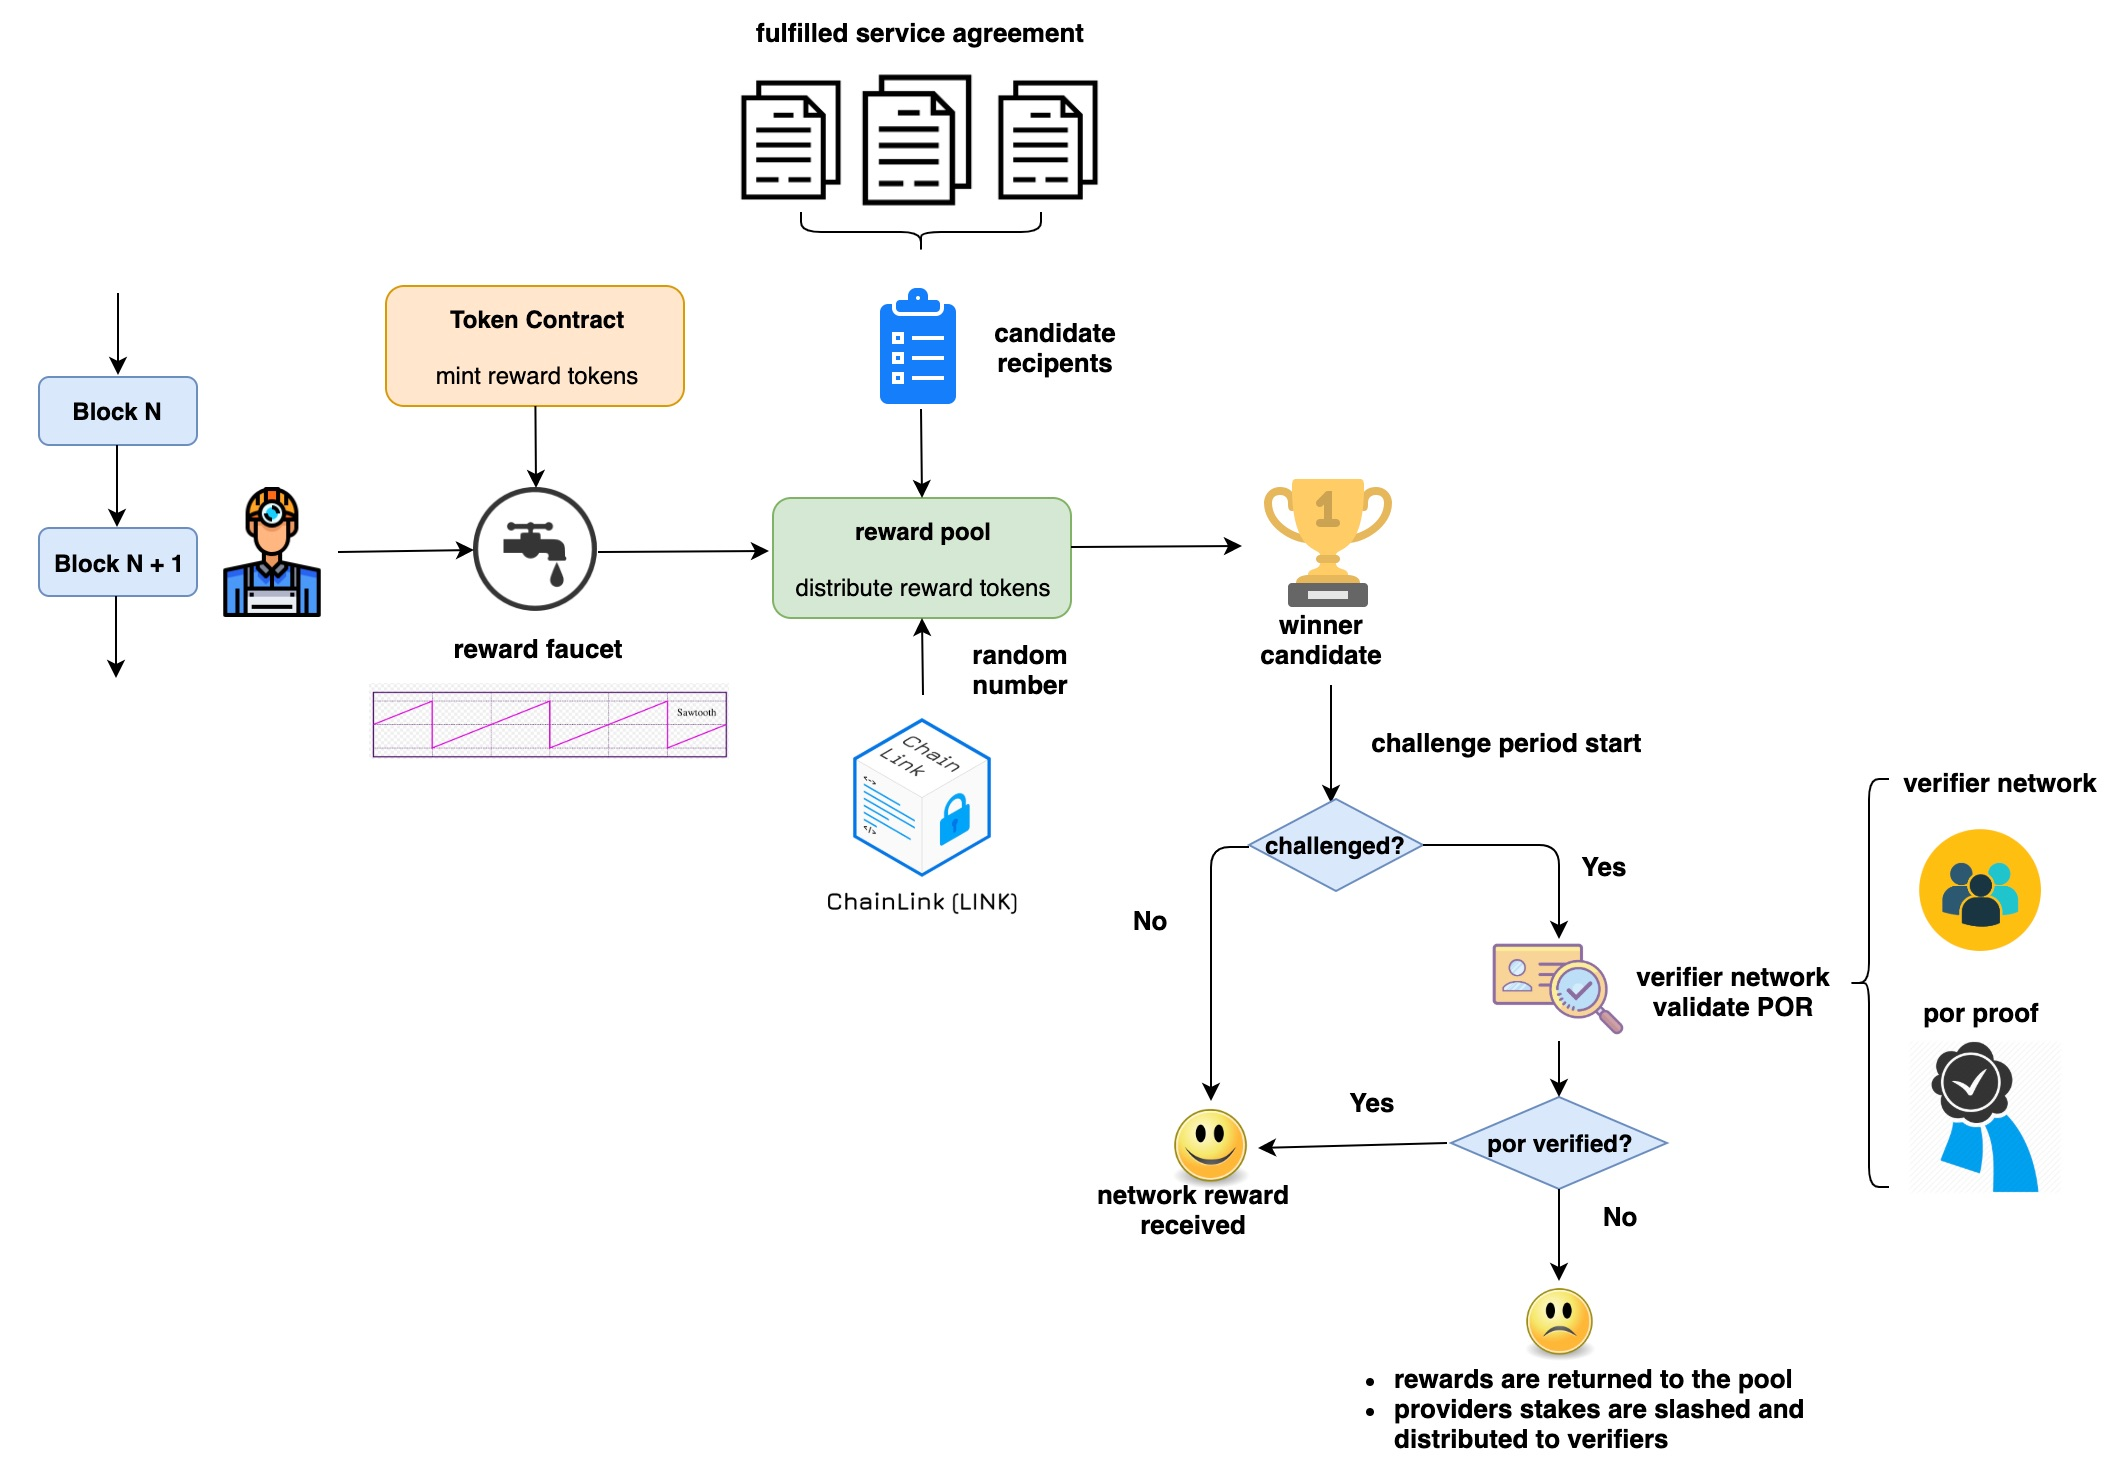
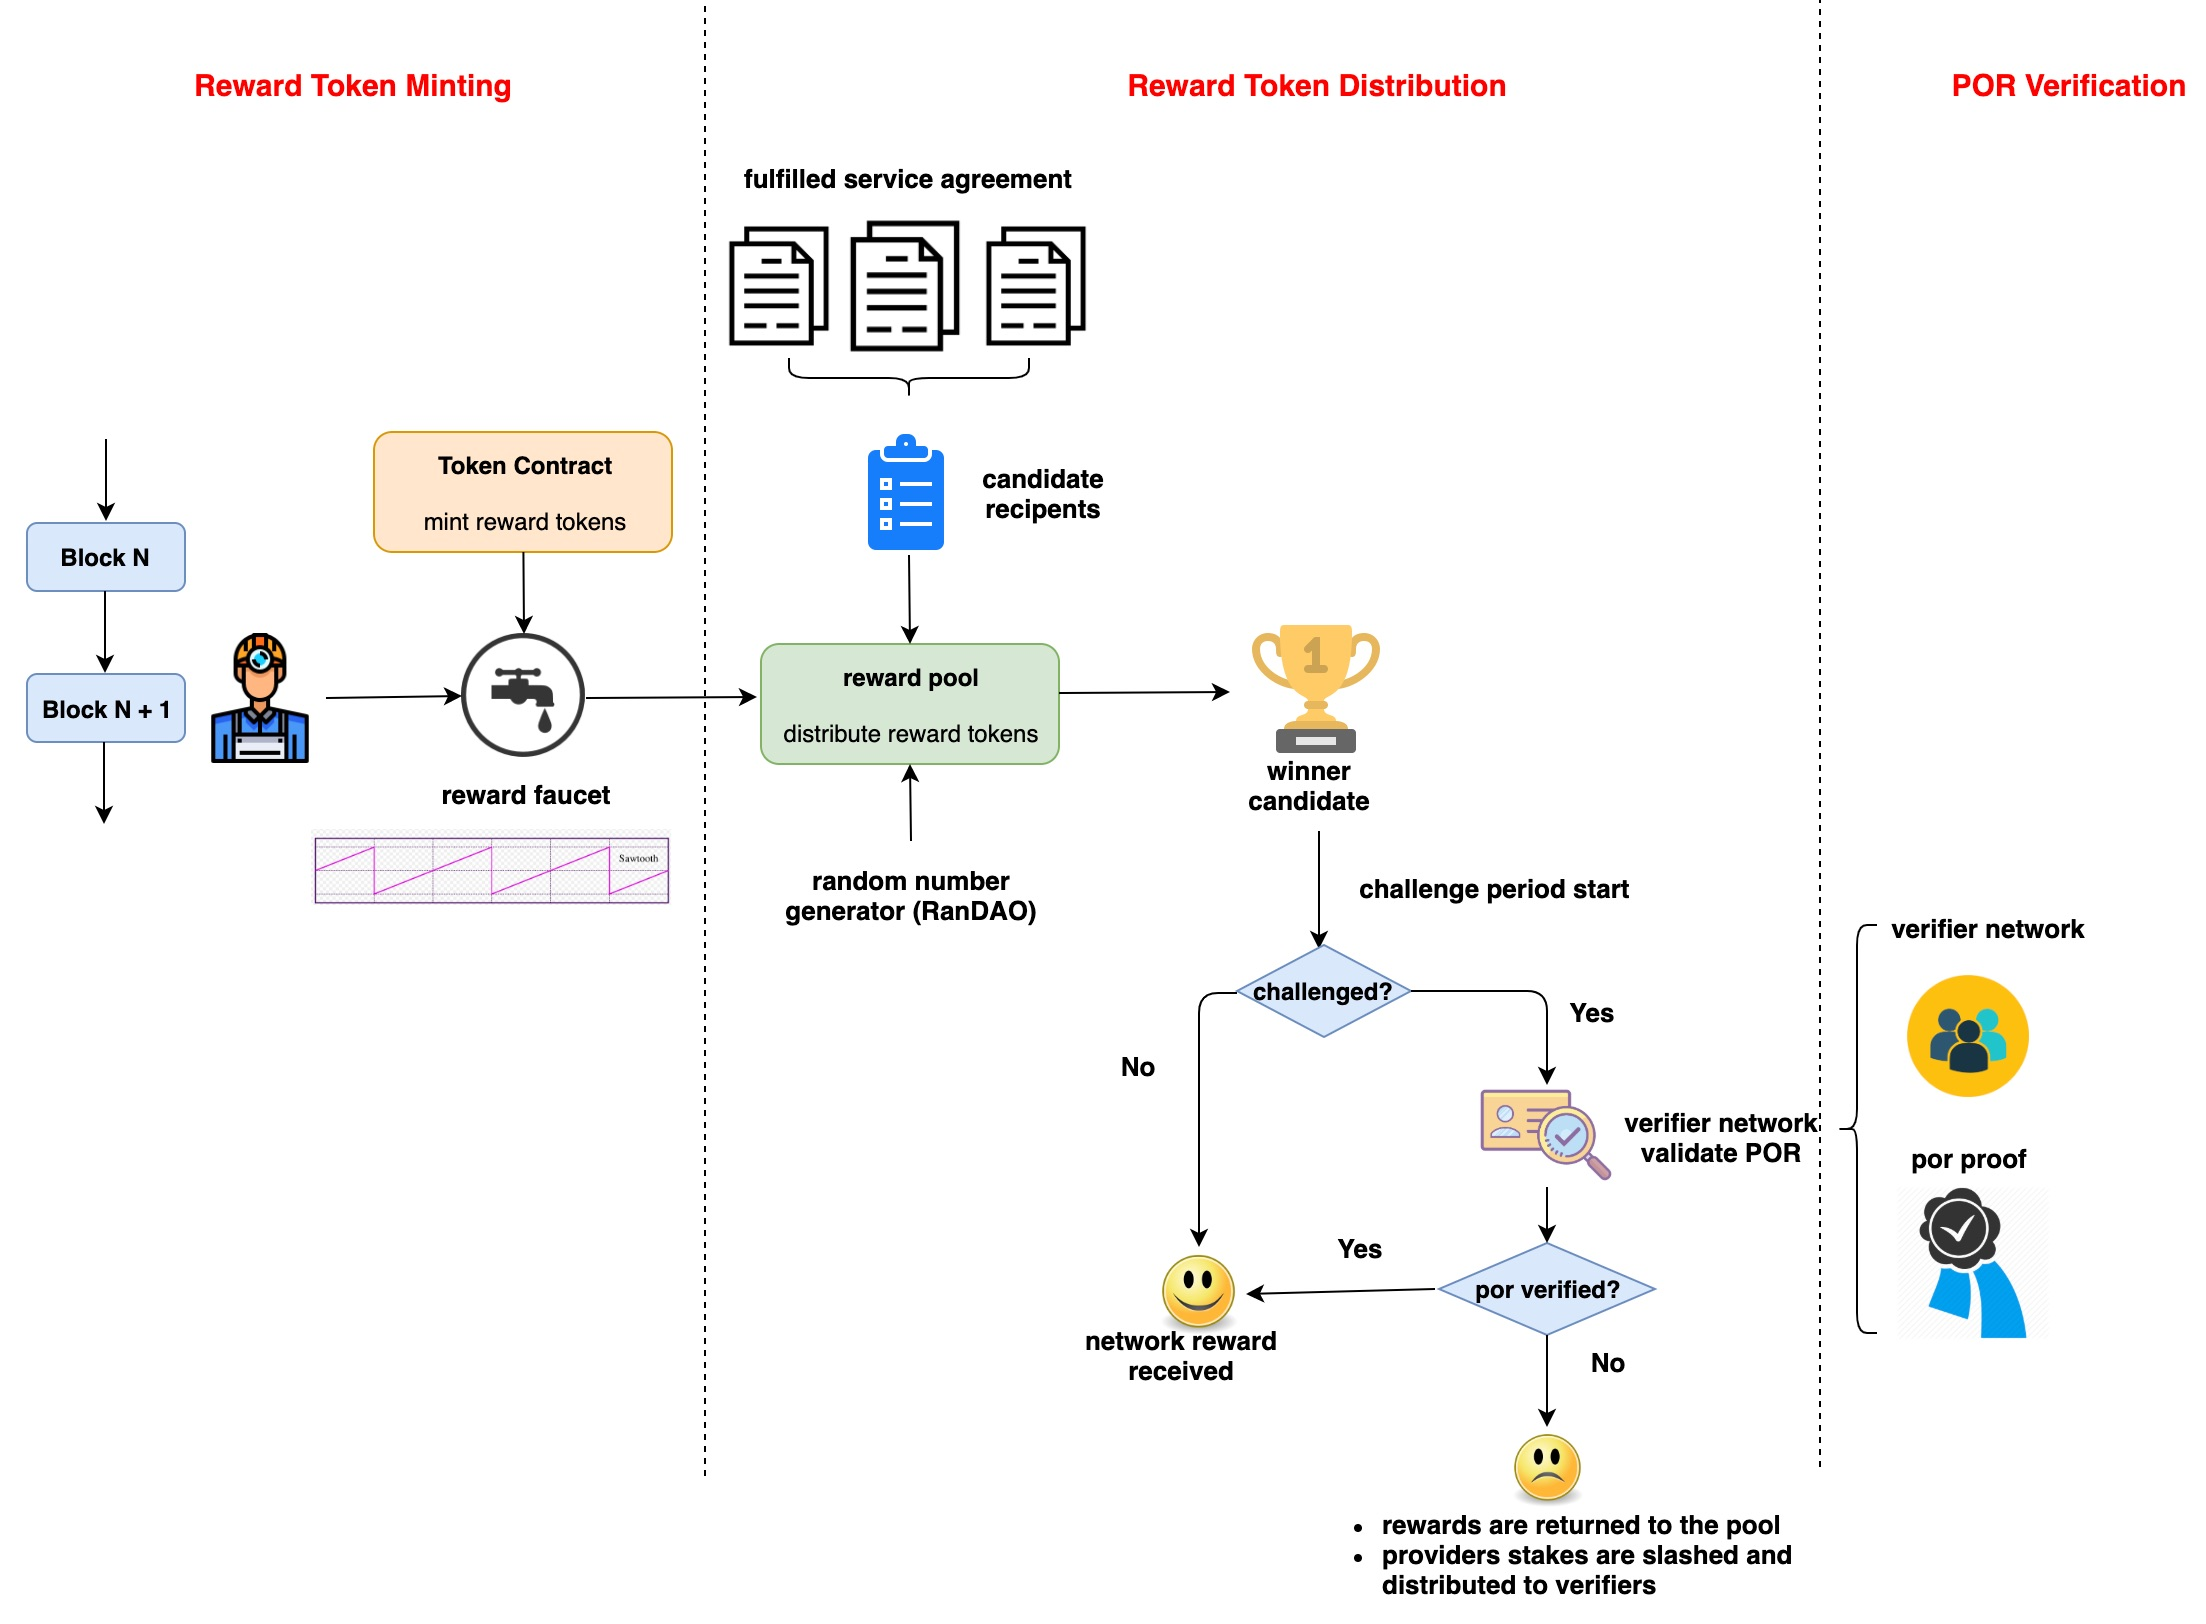
modify incentive

diff --git a/17-permissionless-incentive/README.md b/17-permissionless-incentive/README.md
@@ -5,7 +5,7 @@
 ```
 name: research on incentive design
 type: research
-status: initial draft
+status: updated draft
 editor: Fang Gong <fang@oceanprotocol.com>
 date: 08/27/2019
 ```
@@ -73,7 +73,7 @@ The key problems of incentive design in this layer are follows:
 
 To address these problems, we plotted the initial architecture design as follows:
 
-<img src="img/arch2.jpg" width=1500 />
+<img src="img/arch.jpg" width=1500 />
 
 * **Mining**: 
 	* the network reward tokens will be minted every period of blocks as pre-defined schedule.
@@ -86,7 +86,8 @@ To address these problems, we plotted the initial architecture design as follows
 *  **Distribution**: 
 	* providers who fulfill the service agreement of **data commons** in the same period can be added into the candidate list;
 	* when current epoch is closed, the list will be cleared and start a new epoch;
-	* an random number generator (e.g., RanDAO) or oracle service (e.g. Chainlink) can be used to choose a random recipent from the list (assume each recipent has the same probability to be chosen);
+	* an random number generator (e.g., RanDAO) or oracle service (e.g. Chainlink) can be used to choose a random recipent from the list;
+	* assume each recipent has the same probability to be chosen, but the actual reward paid out might be a function of provider's staking amount);
 * **Verification: (challenge-response appraoch that assume to be good until challenged)**
 	* when a recipent is picked, the challenge period starts, which can be 1 week or 1 month.
 	* anyone can be the challenger to create a challenge against the picked recipent;
@@ -185,9 +186,13 @@ This module includes following components:
 <img src="img/mining-2.jpg" />	
 
 * **Distribute network rewards**
-	* as a first-cut design, each provider who **serve the access to data commons** is eligible to receive network rewards;
+	* **(Update: 09/10/2019)**: each provider who have staked, made dataset available, and served the access to data commons in current epoch is eligible to receive network rewards;
 	* for each epoch, one eligible provider is chosen to receive all reward tokens in the pool;
 	* the reward tokens are locked up for a period (e.g., one week or one month) when anyone can challenge the reward and initiate a verification aganist the provider.
+	* **(Update: 09/10/2019)**: provider must stake more Ocean tokens than the amount of received network rewards:
+		* when picked as the winner, provider can get the reward tokens right away;
+		* meanwhile, their stakes become the "locked stake", which can be lost in the challenge period (e.g., one week or one month) if a successful challenge. 
+
 
 <img src="img/distr.jpg" />	
 
@@ -229,17 +234,11 @@ Overall, all these modules can be built in the same time but they should be inte
 
 <img src="img/roadmap.jpg" width=600 />
 
+## 3.5 Outstanding Issues
 
+### 3.5.1 Reward Multiple Providers for The Same Dataset
 
-# 4. Incentive in Curation Layer
-
-# 5. Appendix
-
-## 5.1 Reward Multiple Providers for The Same Dataset
-
-
-
-### 5.1.1 Problem
+* **Problem**
 
 In the current design of Ocean architecture, each proxy has a single URL pointing to a specific storage serving the dataset. However, many storage providers may serve the exactly the same dataset. 
 
@@ -249,7 +248,7 @@ The root cause of the issue is that each proxy is not aware of the complete list
 
 <img src="img/proxy1.jpg" width=700 />
 
-### 5.1.2 Solution
+* **Solution**
 
 To resovle the issue, the key is to enable all proxies to be aware of all storage providers for the same dataset, which can be done through Keeper contract.
 
@@ -261,5 +260,145 @@ After the proxy receives the provider DID from Keeper contract, it can retrieve 
 
 More importantly, Keeper contract is in charge of randomly choosing a provider from the list, which prevents potential attacks: for example, an attacker runs a proxy and a storage in the same time, and creates a huge amount of requests to access the dataset in his own storage. As such, he fakes the requests and earn network rewards. 
 
+The potential disadvantage is the performance hit, since proxy needs to transact with Keeper to get the provider DID and it may cause a latency.
+
 <img src="img/proxy2.jpg" width=1000 />
+
+### 3.5.2 Need to stake Ocean token to earn
+
+There is an option to requrie miners and sourcers to stake Ocean tokens on their served dataset in addition to serve access requests. The motivations have two folds:
+
+* the staking requirement can filter out most fraudulence, which serve tons of low-quality (if not garbage) dataset in Ocean network to earn network rewards;
+* it creates the huge demand of Ocean tokens and drive up the token price. 
+
+However, it creates certain entrance barrier or friction for new miners to Ocean, who only want to serve dataset to earn network rewards. It can potentially prevent them from participating in Ocean ecosystem. 
+
+Some thoughts of possible solution:
+
+* each miner has a one-time trail period (e.g., one month or so):
+	* miners do not need to stake in order to earn. They can start serving dataset right away without any friction;
+	* after the trail period expires, miners are requried to stake Ocean tokens (funding source can be purchased token or earned network rewards).
+	* possible attack:
+		* miners can create a new account to start a new trail period (i.e., Sybil attack);
+		* however, they cannot build up their reputations in this way;
+		* network rewards can be tuned to reward more to miners with longer time history.
+* alternatively, Ocean can enforce staking policy in a latter stage:
+	* in the early stage, the top priority is to encourage more miners to serve dataset, therefore, it helps them onboard by suspending the staking requirement for time being;
+	* when more and more miners join Ocean, we can enforce the staking policy at that time to prevent fraudulence.
+
+### 3.5.3 IP Rights Violation (Elsa & Anna Attack)
+
+Miners may serve a IP-protected but very popular dataset (e.g., Disney movie, music songs and etc) to earn tremendous amount of network rewards in a short period of time. However, they clearly don't own the copyright. Such behavior creates an IP violation and critical legal issue. Ocean shall reduce the chance of such IP issue at the early stage.
+
+Depending on the required efforts from Ocean, the solutions can include:
+
+* **challenge-response** approach: 
+	* Ocean will not step into the investigation of IP violation until anyone (e.g., real IP owner or normal user) challenge an existing dataset;
+	* for every distribution of network rewards, tokens will be locked up for a period time (e.g., one week, one month or even longer). So the miner can be challenged and lose their earned rewards. 
+	* the challenger will take the staking of the miner as his rewards.
+	* (optional): OPF may reserve a pool of network rewards for challengers to motivate them to detect the IP violations more actively.
+* **proactive infringement detection** approach:
+	* in order to actively detect the violation, Ocean can leverage external infringement detection service to inspect the dataset at the very beginning (e.g., when publisher upload the dataset through the client).
+
+
+### 3.5.4 Sybil Download Attack
+
+To earn more network rewards, the miners may fake tremendous amount of access transactions on their own datasets *within one epoch of reward distribution*. In this way, miners serve more fake access requests and have higher probability to receive the rewards.
+
+To prevent such attack, some potential approaches can be adopted:
+
+* **Simple Case: attack from single account**
+	* detect the abnormal access pattern from single account:
+		* repeatedly download the same dataset within a short period of time
+		* single account repeatedly download various datasets from one single miner;
+		* ...
+	* deactivate those account to stop their access to the Ocean network for a period of time or limit their transactions in a epoch of reward distribution.
+	* reward distribution smart contract can lower the winning probability for miners with such abnormal transaction history.
+* **Complex Case: attack from many controlled accounts or a ring of actors**
+	* it becomes extremely difficult to recognize those controlled accounts in this scenario, because all of them seem to be normal;
+	* instead, Ocean can monitor the abnormal download stats for miners and properly scale down the factor of download transactions in calculating the probability of receiving network reward.
+	
+Overall, Ocean need to create a fair policy to distribute reward tokens to all miners with equal probability, who contribute dataset and serve the access requests in the network. 
+
+# 4. Incentive in Curation Layer
+
+Ocean needs to motivate the community to curate high-quality dataset in a more decentralized way. To do so, each dataset can have corresponding bonding curve so that the community can stake and unstake on the dataset and make a profit. 
+
+
+## 4.1 Architecture
+
+The bonding curves is an automated market maker that accept reserve token deposit and mint bonded tokens at the price set by the curve; similarly, it can burn bonded token and return reserved token as the exchange. More details can be found in [POC of bonding curve](../02-signaling-mechanism/1-bonding-curve)
+
+
+<img src="img/bonding.jpg" />
+
+As such, each dataset has its **own bonding curves with different parameters** and its **own bonded tokens**. Note that bonded token is an ERC20 token that can be transferred between peers and traded in external exchanges as well. 
+
+Token holders can deposit their Ocean tokens in the bonding curves of their favorite datasets and receive bonded tokens at the exchange rate at that time. If they stake early, the cost of bonded token is much lower, therefore, they can make a great profit by unstaking when dataset becomes popular and bonded token is expensive.
+
+<img src="img/bonding2.jpg" />
+
+## 4.2 Development
+
+The entire curation layer can be developed in Keeper contract, which includes two components:
+
+* **Factory Contract**: this is the manager contract of all bonding curve contract that can:
+	* create a new bonding curve contract;
+	* activate / deactivate a bonding curve contract;
+	* search for bonded token contract address for a specific bonding curve contract;
+	* search for bonding curve contract for a specific dataset DID;
+	* ...
+* **Bonding Curve Contract**: 
+	* it implements the bonding curve with specified parameters;
+	* it create and deploy a new ERC20 contract as the bonded token contract;
+	* it has ownership of the deployed bonded token contract.
+
+<img src="img/bonding3.jpg" />
+
+Note that each bonding curve may have different parameters that determines the shape of curve and appreciation speed of bonded token price. These paramters can be set by Ocean in the global or individual governor from OPF.
+
+## 4.3 Outstanding Issues
+
+### 4.3.1 Curation Clone Attack
+
+It is possible that attackers re-publish the super popular dataset and started a brand new curation market, where they get significant stake in the market because they were early adopters of the duplicate dataset. In this way, multiple duplicate curation market can be built for the same dataset, hindering discoverability not to mention being unfair to the first publisher..
+
+The key to solve this issue is to prevent any publisher/miner from creating new curation market at their will. This is the root cause of this kind of fraudulence.
+
+Instead, a **proposal-voting process** can be adopted to create new curation markets:
+
+* miner needs to submit a proposal (that details the market info, dataset info, etc.) to the community in order to create new curation market;
+* miner is required to deposit a certain amount of Ocean tokens on their proposal, which will be returned to them if the proposal is successful;
+* all miners can vote on the proposal in a certain period of time using TCR;
+	* miners are motivated to find duplicate markets, because they may be the victim of such attack;
+* when most miners approve the proposal, this curation market can be created.
+
+### 4.3.2 Data Availability Attack
+
+It is possible that miner removes the dataset by accident or on purpose when the curation market has been created. In this way, the market becomes dangling without real dataset behind it and bonded tokens will be dumped. 
+
+Much worse, the attacker may dump all his bonded token at higher price and remove the dataset after.
+
+There are some approaches to reduce the chance of such attack:
+
+* Miner is required to restore the access of dataset in a certain period of time;
+* If dataset is still unavailable after the time window, the stakes of the miner will be slashed as the penalty, which will be distributed to all curators of this dataset;
+* Miner of this dataset will become ineligible to receive any network rewards;
+* Miner account will be deactivated to publish new dataset.
+
+### 4.3.2 Pump-and-Dump Attack
+
+Attackers may stake in curation market at very low price, broadcast fake information to pump the token price and dump all their positions at higher price for profits.
+
+**Shorting in Bonding Curves** is a possible approach to prevent such attack: 
+
+* it motivates the community to inspect curation markets that include fraudulence. Since shorting requires no previous purchase, shorting traders can short at any price before the attacker dump their tokens;
+* it requires the bonding curve can be defined as an analytic formula so that it is integral calculation can be programmed in smart contract;
+* more details in [shorting bonding curve research](../02-signaling-mechanism/2-shot-sell-bc/README.md) 
+
+## 4.4 More Features
+
+* **stake in Ether or any other ERC20 token**
+	* users can deposit Ocean, Ether or any other ERC20 token as the reserve token into the bonding curve contract;
+	* it can be enabled by integrating Uniswap to automated swap other tokens into Ocean tokens and deposit Ocean tokens into bonding curve contract.
 
